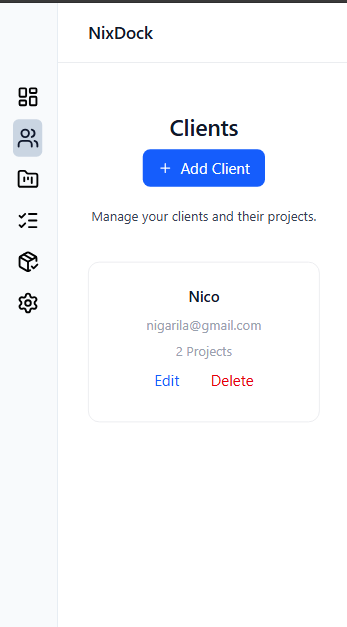
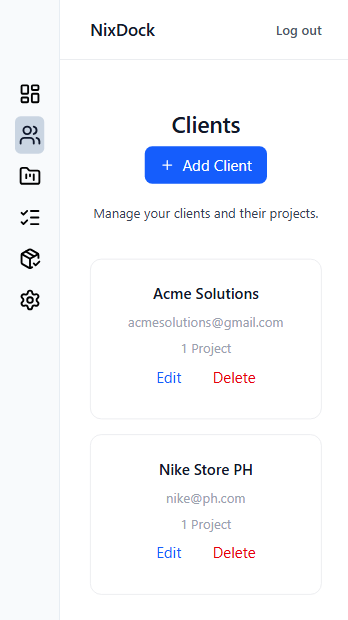
docs: improve README and add database schema

diff --git a/README.md b/README.md
@@ -1,30 +1,62 @@
 # NixDock
 
-NixDock is a workspace management platform for freelancers and small service businesses. It helps users organize clients, projects, tasks, deadlines, and deliverables in one place.
+**A workspace management platform for freelancers and small service businesses.**
+
+NixDock helps freelancers organize client relationships and manage projects, tasks, deadlines, and deliverables in one place.
+
+🔗 **Live Demo:** https://nix-dock.vercel.app/
+
+💻 **Repository:** https://github.com/nico-devstudio/NixDock
+
+This project is actively being developed as a full-stack portfolio application.
+
+## The Problem
+
+Freelancers and small service businesses often manage client information, project deadlines, tasks, and deliverables across different tools. This can make it difficult to track progress and keep work organized.
+
+NixDock brings these workflows together in a single workspace, helping users keep track of their clients and the work they deliver.
 
 ## Features
 
-- Client management
-- Project management with optional client assignment
-- Task management and deadline validation
-- Deliverable tracking
-- Dynamic project progress based on completed tasks
-- User authentication with JWT
-- User-specific data access and ownership checks
-- Input validation and error handling
-- Project, task, client, and deliverable relationships
-- Responsive interface
-- Reusable forms for creating and editing records
+- **Authentication:** Register and log in with protected user accounts.
+- **Client Management:** Create, view, update, and delete client records.
+- **Project Management:** Organize projects, associate clients, and manage project deadlines and status.
+- **Task Management:** Create and track tasks associated with projects.
+- **Deliverable Management:** Organize project deliverables and their due dates.
+- **Progress Tracking:** View project progress based on task completion.
+- **Data Validation:** Validate user input and enforce relevant project and deadline constraints.
+- **Responsive Interface:** Access the workspace through a modern web interface.
+
+## Screenshots
+
+Dashboard
+![NixDock Dashboard](./public/screenshots/dashboard-desktop.png)
+
+Projects and project details
+![NixDock Projects](./public/screenshots/projects-desktop.png)
+
+![NixDock Project Details](./public/screenshots/project-details.png)
+
+Clients
+![NixDock Clients](./public/screenshots/clients-desktop.png)
+
+Tasks and deliverables
+![NixDock Tasks](./public/screenshots/tasks-desktop.png)
+
+![NixDock Deliverables](./public/screenshots/deliverables-desktop.png)
+
+Mobile
+![NixDock Clients Mobile](./public/screenshots/client-mobile.png)
 
 ## Tech Stack
 
 ### Frontend
 
 - React
+- JavaScript
+- Vite
 - React Router
 - Tailwind CSS
-- Vite
-- JavaScript
 - Lucide React
 
 ### Backend
@@ -32,98 +64,161 @@ NixDock is a workspace management platform for freelancers and small service bus
 - Node.js
 - Express
 - PostgreSQL
-- JWT authentication
+- `pg` for database access
+- JSON Web Tokens (JWT) for authentication
+- bcrypt for password hashing
 
-## Key Implementation Details
+### Deployment
 
-- Shared frontend state is managed through the root layout and React Router's `Outlet` context.
-- The backend exposes API endpoints for managing application resources.
-- PostgreSQL stores application data and enforces relational integrity.
-- JWT authentication protects API routes and associates requests with the authenticated user.
-- Database queries scope resources to the authenticated user.
-- Project progress is calculated dynamically from task completion.
-- Project deadlines are checked against associated task deadlines.
-- Task and deliverable dates are validated before database operations.
-- Project deletion respects database relationships with associated tasks and deliverables.
-- Reusable form components support creating and editing records.
-- Dynamic routes and URL parameters display individual resource details.
+- Vercel — frontend
+- Render — backend API
+- Neon — PostgreSQL database
 
-## Tech Stack Overview
+## Architecture Overview
 
-- **Frontend:** React, React Router, Tailwind CSS, Vite
-- **Backend:** Node.js, Express
-- **Database:** PostgreSQL
-- **Authentication:** JSON Web Tokens (JWT)
+NixDock uses a client-server architecture.
 
-## Getting Started
+1. The React frontend renders the user interface and handles navigation and user interactions.
+2. The frontend sends HTTP requests to the Express API.
+3. Authentication middleware verifies JWTs on protected routes.
+4. Controllers handle request validation and coordinate application logic.
+5. Service modules perform database operations through PostgreSQL.
+6. User-specific queries enforce ownership of clients, projects, tasks, and deliverables.
+
+## Local Development
 
 ### Prerequisites
 
-- Node.js
-- npm
-- PostgreSQL
+- Node.js and npm
+- Git
+- A PostgreSQL database
 
-### Installation
-
-Clone the repository:
+### 1. Clone the repository
 
 ```bash
-git clone https://github.com/nico-devstudio/nixdock.git
-cd nixdock
+git clone https://github.com/nico-devstudio/NixDock.git
+cd NixDock
 ```
 
-Install the frontend dependencies:
+### 2. Install frontend dependencies
+
+From the project root:
 
 ```bash
 npm install
 ```
 
-Install backend dependencies from the backend directory:
+### 3. Configure the frontend
+
+Create a `.env` file in the project root:
+
+```env
+VITE_API_URL=http://localhost:3000
+```
+
+### 4. Install backend dependencies
 
 ```bash
 cd backend
 npm install
 ```
 
-### Environment Configuration
+### 5. Configure the backend
 
-Configure the backend environment variables for your PostgreSQL connection and JWT secret. Use the environment variable names expected by your backend configuration.
+Create a `backend/.env` file using the environment variable names required by the backend:
 
-Do not commit `.env` files, database passwords, or JWT secrets to version control.
+```env
+PORT=3000
+DB_USER=your_postgresql_username
+DB_HOST=your_postgresql_host
+DB_NAME=your_database_name
+DB_PASSWORD=your_database_password
+DB_PORT=5432
+JWT_SECRET=your_long_random_secret
+FRONTEND_URL=http://localhost:5173
+```
 
-### Running the Application
+Replace the example values with your own local configuration. Never commit real credentials or `.env` files.
 
-Start the backend from its directory using the development script defined in its `package.json`.
+### Initialize the database
 
-Start the frontend from the project root:
+Create a local PostgreSQL database and apply the schema:
+
+```bash
+createdb nixdock
+psql -d nixdock -f backend/db/schema.sql
+```
+
+If your PostgreSQL installation requires an explicit username or host, use the appropriate connection options, such as `-U postgres -h localhost`.
+
+Make sure the `DB_USER`, `DB_HOST`, `DB_NAME`, `DB_PASSWORD`, and `DB_PORT` values in `backend/.env` match your local PostgreSQL configuration.
+
+### 6. Start the backend
+
+From the `backend` directory:
 
 ```bash
 npm run dev
 ```
 
-Open the local URL provided by Vite.
+### 7. Start the frontend
 
-Ensure PostgreSQL is running and the backend database has been configured before using the application.
+Open a second terminal at the repository root:
 
-## Screenshots
+```bash
+npm run dev
+```
 
-### Desktop
+Open the local URL printed by Vite in your browser.
 
-![NixDock Dashboard](public/screenshots/dashboard-desktop.png)
+## Available Scripts
 
-![NixDock Project](public/screenshots/project-desktop.png)
+### Frontend
 
-### Mobile
+| Command           | Description                          |
+| ----------------- | ------------------------------------ |
+| `npm run dev`     | Start the Vite development server    |
+| `npm run build`   | Build the production frontend        |
+| `npm run preview` | Preview the production build locally |
+| `npm run lint`    | Run ESLint                           |
 
-![NixDock Dashboard Mobile](public/screenshots/dashboard-mobile.png)
+### Backend
 
-![NixDock Client Mobile](public/screenshots/client-mobile.png)
+| Command       | Description                    |
+| ------------- | ------------------------------ |
+| `npm run dev` | Start the backend with Nodemon |
+| `npm start`   | Start the backend with Node.js |
+
+## Production Build and Lint
+
+Run these commands from the project root:
+
+```bash
+npm run lint
+npm run build
+```
+
+The backend currently has no automated test suite configured.
+
+## Security Notes
+
+- Passwords are hashed with bcrypt rather than stored as plain text.
+- Protected API routes require a valid JWT.
+- Database queries scope records to the authenticated user.
+- Secrets and database credentials must be supplied through environment variables.
+
+## What I Learned
+
+Building NixDock gave me practical experience with React application structure, REST API development, authentication, relational database design, server-side validation, user-level data authorization, and deploying a full-stack application.
+
+The project also helped me understand how frontend components, backend controllers and services, and database relationships work together in a real application.
 
 ## Future Improvements
 
-- Production deployment
-- Automated tests
-- Improved notifications and reminders
-- File uploads for deliverables
-- Additional workspace and collaboration features
-- Enhanced reporting and analytics
+- Automated integration and end-to-end tests
+- Improved accessibility and responsive behavior
+- Additional workflow and productivity features
+
+---
+
+Built as a full-stack portfolio project by Nico.
